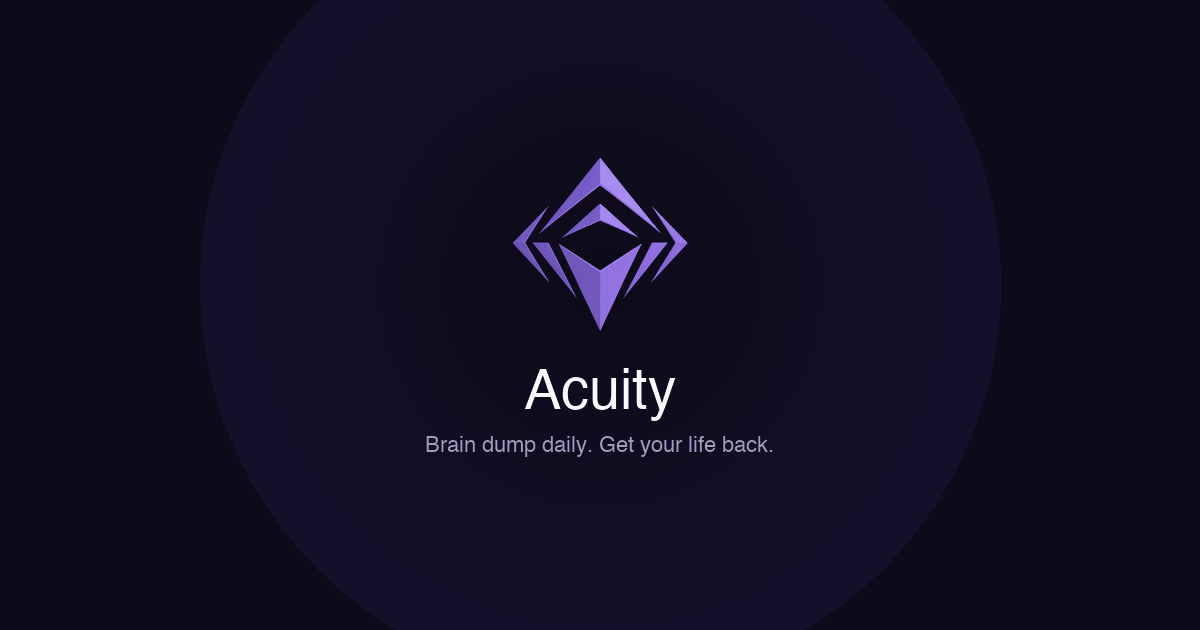
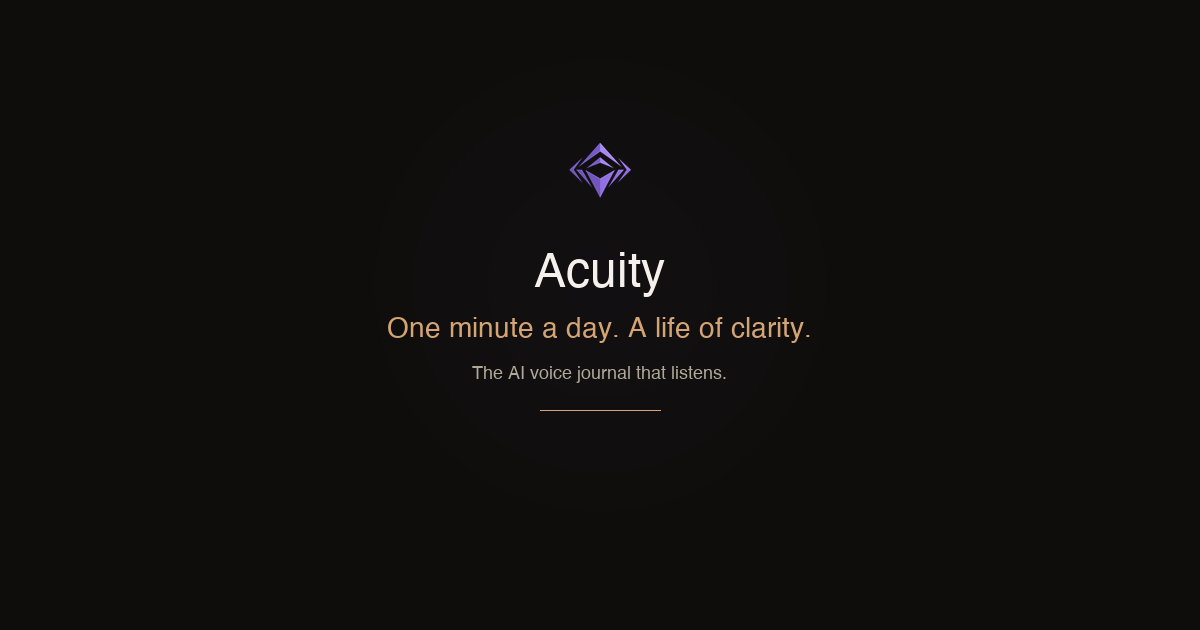
content: update OG social share image to match new branding
Regenerates og-image.png with warm dark background, amber tagline, and new
copy (One minute a day. A life of clarity.). Adds ?v=2 cache-bust param to
all og:image and twitter:image references across 11 files. Removes unused
og-image.jpg.

- apps/web/public/og-image.png: new 1200x630 image with warm branding
- apps/web/public/og-image.jpg: deleted (old duplicate)
- 11 layout/page files: og:image URLs updated with ?v=2 cache-bust

diff --git a/apps/web/src/app/layout.tsx b/apps/web/src/app/layout.tsx
@@ -47,14 +47,14 @@ export const metadata: Metadata = {
     title: "Acuity — One Minute a Day. A Life of Clarity.",
     description:
       "The AI journal that listens. Record your daily debrief by voice — AI extracts tasks, tracks goals, detects life patterns, and delivers your weekly report. No typing. No prompts. Just talk.",
-    images: [{ url: "/og-image.png", width: 1200, height: 630, alt: "Acuity — AI voice journal for your daily debrief" }],
+    images: [{ url: "/og-image.png?v=2", width: 1200, height: 630, alt: "Acuity — AI voice journal for your daily debrief" }],
   },
   twitter: {
     card: "summary_large_image",
     title: "Acuity — One Minute a Day. A Life of Clarity.",
     description:
       "The AI journal that listens. Record your daily debrief by voice — AI extracts tasks, tracks goals, detects life patterns, and delivers your weekly report.",
-    images: ["/og-image.png"],
+    images: ["/og-image.png?v=2"],
   },
   robots: {
     index: true,

diff --git a/apps/web/src/app/for/weekly-report/layout.tsx b/apps/web/src/app/for/weekly-report/layout.tsx
@@ -12,14 +12,14 @@ export const metadata: Metadata = {
       "From your daily voice journal: your wins, your patterns, what you said you'd do versus what happened. An AI-written weekly report, every Sunday.",
     url: "https://getacuity.io/for/weekly-report",
     siteName: "Acuity",
-    images: [{ url: "/og-image.png", width: 1200, height: 630 }],
+    images: [{ url: "/og-image.png?v=2", width: 1200, height: 630 }],
   },
   twitter: {
     card: "summary_large_image",
     title: "Acuity Weekly Report — Every Sunday, AI Writes Your Week Back to You",
     description:
       "From your daily voice journal: your wins, your patterns, what you said you'd do versus what happened. An AI-written weekly report.",
-    images: ["/og-image.png"],
+    images: ["/og-image.png?v=2"],
   },
 };
 

diff --git a/apps/web/src/app/for/sleep/layout.tsx b/apps/web/src/app/for/sleep/layout.tsx
@@ -12,14 +12,14 @@ export const metadata: Metadata = {
       "Can't sleep because your brain won't stop? The brain dump app that gives you 60 seconds to empty your head before bed so your mind can finally rest.",
     url: "https://getacuity.io/for/sleep",
     siteName: "Acuity",
-    images: [{ url: "/og-image.png", width: 1200, height: 630 }],
+    images: [{ url: "/og-image.png?v=2", width: 1200, height: 630 }],
   },
   twitter: {
     card: "summary_large_image",
     title: "Acuity for Sleep — The 60-Second Brain Dump App That Fixes Racing Thoughts",
     description:
       "Can't sleep because your brain won't stop? The brain dump app that gives you 60 seconds to empty your head before bed.",
-    images: ["/og-image.png"],
+    images: ["/og-image.png?v=2"],
   },
 };
 

diff --git a/apps/web/src/app/for/therapy/layout.tsx b/apps/web/src/app/for/therapy/layout.tsx
@@ -12,14 +12,14 @@ export const metadata: Metadata = {
       "Track your emotional patterns daily with an AI voice journal. Mood tracking, AI pattern detection, and weekly mental health reports for less than one therapy copay.",
     url: "https://getacuity.io/for/therapy",
     siteName: "Acuity",
-    images: [{ url: "/og-image.png", width: 1200, height: 630 }],
+    images: [{ url: "/og-image.png?v=2", width: 1200, height: 630 }],
   },
   twitter: {
     card: "summary_large_image",
     title: "Acuity for Therapy — AI Mood Tracking and Pattern Detection",
     description:
       "Track your emotional patterns daily with an AI voice journal. Weekly mental health reports for less than one copay.",
-    images: ["/og-image.png"],
+    images: ["/og-image.png?v=2"],
   },
 };
 

diff --git a/apps/web/src/app/for/founders/layout.tsx b/apps/web/src/app/for/founders/layout.tsx
@@ -12,14 +12,14 @@ export const metadata: Metadata = {
       "The AI journal that extracts tasks, tracks goals, and writes your weekly report automatically. The daily journal app built for founders and executives.",
     url: "https://getacuity.io/for/founders",
     siteName: "Acuity",
-    images: [{ url: "/og-image.png", width: 1200, height: 630 }],
+    images: [{ url: "/og-image.png?v=2", width: 1200, height: 630 }],
   },
   twitter: {
     card: "summary_large_image",
     title: "Acuity for Founders — The 60-Second Daily Debrief for High Performers",
     description:
       "The AI journal that extracts tasks, tracks goals, and writes your weekly report automatically. Built for founders.",
-    images: ["/og-image.png"],
+    images: ["/og-image.png?v=2"],
   },
 };
 

diff --git a/apps/web/src/app/blog/[slug]/page.tsx b/apps/web/src/app/blog/[slug]/page.tsx
@@ -153,7 +153,7 @@ function BlogJsonLdStatic({
         "@type": "BlogPosting",
         headline: post.title,
         description: post.metaDescription,
-        image: "https://getacuity.io/og-image.png",
+        image: "https://getacuity.io/og-image.png?v=2",
         datePublished: post.publishedAt,
         dateModified: post.updatedAt,
         author: {
@@ -209,7 +209,7 @@ function BlogJsonLdDynamic({ post }: { post: DynamicPost }) {
         "@type": "BlogPosting",
         headline: post.title,
         description,
-        image: post.heroImageUrl ?? "https://getacuity.io/og-image.png",
+        image: post.heroImageUrl ?? "https://getacuity.io/og-image.png?v=2",
         datePublished: publishedAt,
         dateModified: publishedAt,
         author: {

diff --git a/apps/web/src/app/for/decoded/layout.tsx b/apps/web/src/app/for/decoded/layout.tsx
@@ -12,14 +12,14 @@ export const metadata: Metadata = {
       "The AI voice journal that surfaces the patterns you can't see — mood tracking, life pattern detection, and weekly reports from your daily debrief.",
     url: "https://getacuity.io/for/decoded",
     siteName: "Acuity",
-    images: [{ url: "/og-image.png", width: 1200, height: 630 }],
+    images: [{ url: "/og-image.png?v=2", width: 1200, height: 630 }],
   },
   twitter: {
     card: "summary_large_image",
     title: "Acuity Decoded — AI Pattern Detection for Your Life",
     description:
       "The AI voice journal that surfaces the patterns you can't see — mood tracking, pattern detection, and weekly reports.",
-    images: ["/og-image.png"],
+    images: ["/og-image.png?v=2"],
   },
 };
 

diff --git a/apps/web/src/app/waitlist/layout.tsx b/apps/web/src/app/waitlist/layout.tsx
@@ -11,14 +11,14 @@ export const metadata: Metadata = {
       "Try Acuity free for 14 days. The AI voice journal app that turns your daily debrief into tasks, goal tracking, mood tracking, and weekly reports.",
     url: "https://getacuity.io/waitlist",
     siteName: "Acuity",
-    images: [{ url: "/og-image.png", width: 1200, height: 630 }],
+    images: [{ url: "/og-image.png?v=2", width: 1200, height: 630 }],
   },
   twitter: {
     card: "summary_large_image",
     title: "Start Your Free Trial — 14-Day Free Trial",
     description:
       "Try Acuity free for 14 days. The AI voice journal that turns your daily debrief into tasks, mood tracking, and weekly reports.",
-    images: ["/og-image.png"],
+    images: ["/og-image.png?v=2"],
   },
 };
 

diff --git a/apps/web/src/app/blog/page.tsx b/apps/web/src/app/blog/page.tsx
@@ -16,14 +16,14 @@ export const metadata: Metadata = {
       "Articles on AI journaling, voice journaling, personal productivity, mood tracking, and building a daily journal habit.",
     url: "https://getacuity.io/blog",
     siteName: "Acuity",
-    images: [{ url: "/og-image.png", width: 1200, height: 630 }],
+    images: [{ url: "/og-image.png?v=2", width: 1200, height: 630 }],
   },
   twitter: {
     card: "summary_large_image",
     title: "Blog — Acuity",
     description:
       "Articles on AI journaling, voice journaling, personal productivity, and mood tracking.",
-    images: ["/og-image.png"],
+    images: ["/og-image.png?v=2"],
   },
 };
 

diff --git a/apps/web/src/app/voice-journaling/page.tsx b/apps/web/src/app/voice-journaling/page.tsx
@@ -13,14 +13,14 @@ export const metadata: Metadata = {
     url: "https://getacuity.io/voice-journaling",
     type: "article",
     siteName: "Acuity",
-    images: [{ url: "/og-image.png", width: 1200, height: 630 }],
+    images: [{ url: "/og-image.png?v=2", width: 1200, height: 630 }],
   },
   twitter: {
     card: "summary_large_image",
     title: "Voice Journaling: The Complete Guide",
     description:
       "Why a voice journal beats typing — and how to start your daily debrief tonight.",
-    images: ["/og-image.png"],
+    images: ["/og-image.png?v=2"],
   },
 };
 

diff --git a/apps/web/src/app/for/[slug]/layout.tsx b/apps/web/src/app/for/[slug]/layout.tsx
@@ -15,7 +15,7 @@ export async function generateMetadata({ params }: { params: { slug: string } })
       description: page.metaDescription,
       url: `https://getacuity.io/for/${params.slug}`,
       siteName: "Acuity",
-      images: [{ url: "/og-image.png", width: 1200, height: 630 }],
+      images: [{ url: "/og-image.png?v=2", width: 1200, height: 630 }],
     },
     twitter: {
       card: "summary_large_image",

diff --git a/PROGRESS.md b/PROGRESS.md
@@ -7,6 +7,36 @@
 
 ---
 
+## [2026-05-14] — Update Open Graph social share image to match new branding
+
+**Requested by:** Keenan
+**Committed by:** Claude Code
+**Commit hash:** (this commit)
+
+### In plain English (for Keenan)
+
+When someone shares an Acuity link on Facebook, Twitter, LinkedIn, or iMessage, the preview card now shows the new branding instead of the old "Brain dump daily. Get your life back." tagline. The new image has the Acuity diamond logo on the warm dark background with "One minute a day. A life of clarity." in the amber accent color and "The AI voice journal that listens." underneath. Clean and premium — matches the updated site.
+
+### Technical changes (for Jimmy)
+
+- `apps/web/public/og-image.png`: Regenerated at 1200x630px with warm dark background (#0F0D0B), transparent logo, warm off-white "Acuity" text (#F5F0EB), amber tagline (#D4A574), muted gray subtext (#B0A898), subtle purple radial glow center, thin amber accent line.
+- `apps/web/public/og-image.jpg`: Deleted (unused duplicate of old image).
+- All og:image and twitter:image references across 11 files updated with `?v=2` cache-bust param: layout.tsx, blog/page.tsx, blog/[slug]/page.tsx, voice-journaling/page.tsx, waitlist/layout.tsx, and all /for/* layout files (sleep, therapy, founders, decoded, weekly-report, [slug]).
+
+### Manual steps needed
+
+- [ ] **Clear Facebook OG cache** (Keenan): Go to https://developers.facebook.com/tools/debug/ → paste https://getacuity.io → click "Scrape Again" to force Facebook to fetch the new image.
+- [ ] **Clear Twitter card cache** (Keenan): Go to https://cards-dev.twitter.com/validator → paste https://getacuity.io → preview the new card.
+- [ ] **Clear LinkedIn cache** (Keenan): Go to https://www.linkedin.com/post-inspector/ → paste https://getacuity.io → click "Inspect" to refresh.
+- [ ] **Verify iMessage/Slack**: Send the link in a DM to yourself to confirm the new preview renders.
+
+### Notes
+
+- Social platforms cache OG images aggressively (Facebook up to 30 days, LinkedIn up to 7 days). The `?v=2` query param forces a cache miss when the debugger tools scrape, but organic shares may still show the old image until Keenan manually clears each platform's cache using the tools above.
+- The OG image was generated programmatically with Python/Pillow using system fonts. If the font rendering looks off on high-DPI previews, a designer-exported version would be ideal but this is production-ready.
+
+---
+
 ## [2026-05-14] — Warm site color scheme + replace growth chart with emotional moments
 
 **Requested by:** Keenan
